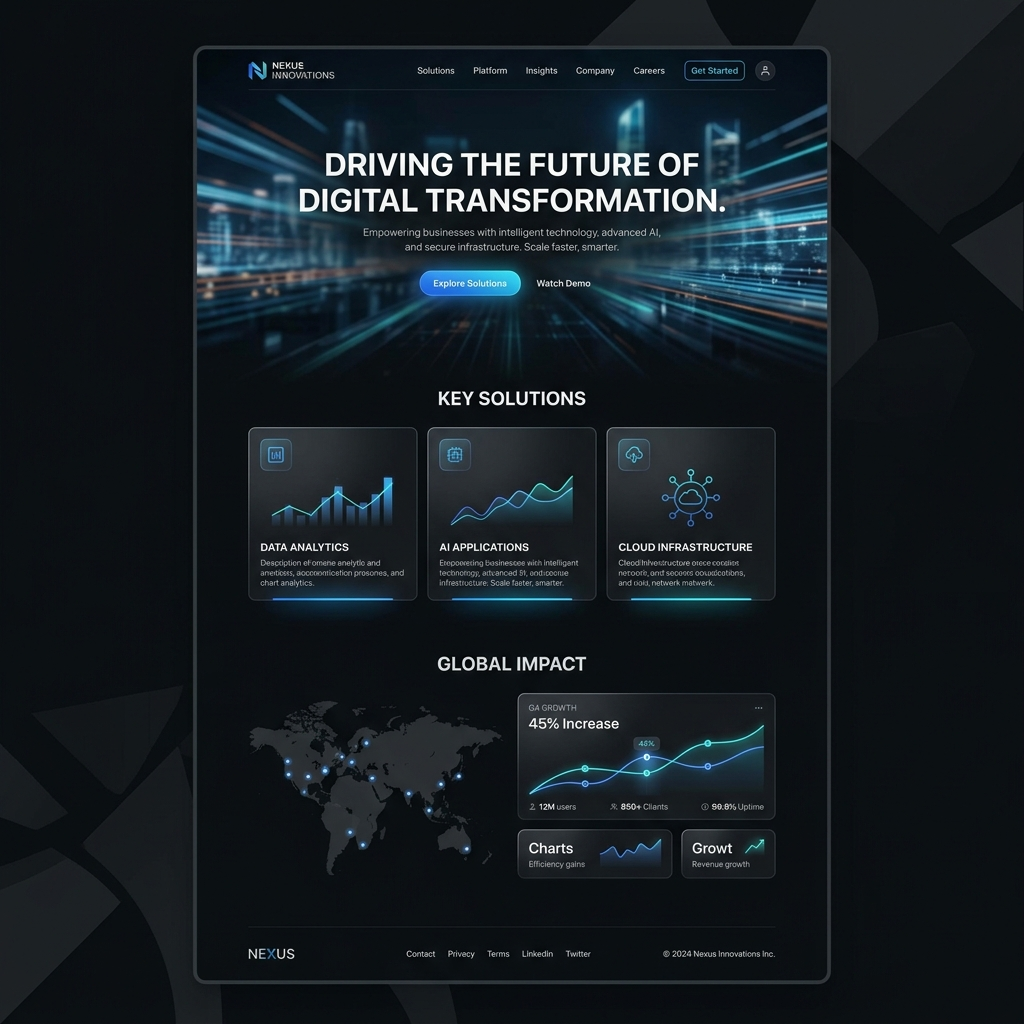
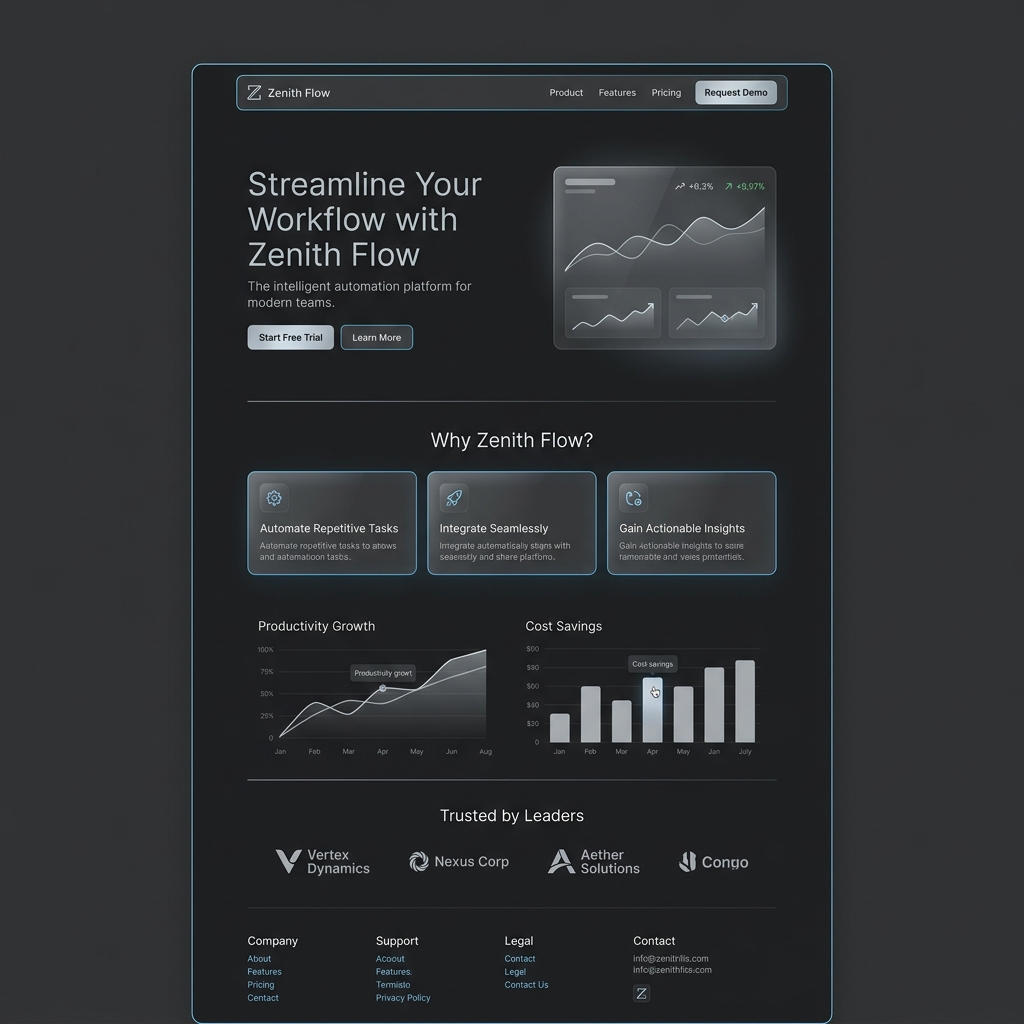
design: replace abstract AI-looking artwork with hyper-realistic modern website screenshots and studio photography

diff --git a/prisma/seed.js b/prisma/seed.js
@@ -25,7 +25,7 @@ const initialData = {
       promo: "Promo Launching - Slot Terbatas!",
       title: "Website Profesional untuk Bisnis Kamu. Selesai 7 Hari. Harga Jelas. Tanpa Ribet.",
       subtitle: "Mitralabs.id hadir buat kamu yang capek bisnis bagus tapi tidak ada yang tahu. Kami buatkan website yang beneran kerja — bukan cuma bagus di mata, tapi menghasilkan di kantong.",
-      image: "/mitralabs_hero_premium_1778227502346.png",
+      image: "/mitralabs_hero_premium.png",
       stats: { label: "Project Selesai", value: "Puluhan", desc: "UMKM, Sekolah, dan Bisnis Lokal di Medan sudah dipercayakan ke kami", statusLabel: "Sistem Status", statusValue: "Aktif" }
     },
     problem: {
@@ -47,17 +47,17 @@ const initialData = {
           tag: "Most Requested",
           title: "🛒 Website untuk UMKM & Toko",
           desc: "Produkmu tampil rapi, harga jelas, tombol pesan langsung ke WA. Pelanggan datang, langsung beli — tanpa bingung.",
-          image: "/mitralabs_umkm_service_1778227528390.png"
+          image: "/mitralabs_umkm_service.png"
         },
         travel: {
           title: "✈ Website untuk Travel & Tour Guide",
           desc: "Paket wisata tampil keren, form booking otomatis, kalender jadwal tersedia. Klien bisa booking kapan saja, kamu tinggal konfirmasi.",
-          image: "/mitralabs_travel_service_1778227548373.png"
+          image: "/mitralabs_travel_service.png"
         },
         school: {
           title: "🏫 Website untuk Sekolah & Lembaga",
           desc: "Profil sekolah profesional, info PPDB online, galeri kegiatan, dan pengumuman terstruktur. Wali murid percaya sejak pertama melihat.",
-          image: "/mitralabs_school_service_1778227565941.png"
+          image: "/mitralabs_school_service.png"
         },
         business: {
           title: "🏢 Website untuk Bisnis & Perusahaan",
@@ -163,7 +163,7 @@ const initialData = {
         slug: "toba-dream-travel",
         title: "Toba Dream Travel Portal",
         category: "Travel",
-        image: "/mitralabs_travel_service_1778227548373.png",
+        image: "/mitralabs_travel_service.png",
         description: "Modernisasi portal wisata Danau Toba dengan sistem booking otomatis dan kalender keberangkatan.",
         challenge: "Menampilkan puluhan paket wisata dengan navigasi yang simpel namun lengkap.",
         solution: "Membangun sistem filter dinamis berbasis kategori dan destinasi wisata.",
@@ -179,7 +179,7 @@ const initialData = {
         slug: "smk-penerbangan-medan",
         title: "Sistem Informasi SMK Penerbangan",
         category: "School",
-        image: "/mitralabs_school_service_1778227565941.png",
+        image: "/mitralabs_school_service.png",
         description: "Website profil sekolah yang dilengkapi sistem pendaftaran siswa baru (PPDB) terintegrasi.",
         challenge: "Mendigitalkan formulir pendaftaran yang kompleks agar mudah diakses wali murid.",
         solution: "Membangun sistem CMS khusus sekolah untuk update berita dan galeri kegiatan.",
@@ -445,7 +445,7 @@ async function main() {
       promo: "Promo Launching - Slot Terbatas!",
       title: "Website Profesional untuk Bisnis Kamu. Selesai 7 Hari. Harga Jelas. Tanpa Ribet.",
       subtitle: "Mitralabs.id hadir buat kamu yang capek bisnis bagus tapi tidak ada yang tahu. Kami buatkan website yang beneran kerja — bukan cuma bagus di mata, tapi menghasilkan di kantong.",
-      image_url: "/mitralabs_hero_premium_1778227502346.png",
+      image_url: "/mitralabs_hero_premium.png",
       stats_label: "Project Selesai",
       stats_value: "Puluhan",
       stats_desc: "UMKM, Sekolah, dan Bisnis Lokal di Medan sudah dipercayakan ke kami"

diff --git a/src/context/initialData.ts b/src/context/initialData.ts
@@ -18,7 +18,7 @@ export const initialData: AppData = {
       promo: "Promo Launching - Slot Terbatas!",
       title: "Website Profesional untuk Bisnis Kamu. Selesai 7 Hari. Harga Jelas. Tanpa Ribet.",
       subtitle: "Mitralabs.id hadir buat kamu yang capek bisnis bagus tapi tidak ada yang tahu. Kami buatkan website yang beneran kerja — bukan cuma bagus di mata, tapi menghasilkan di kantong.",
-      image: "/mitralabs_hero_premium_1778227502346.png",
+      image: "/mitralabs_hero_premium.png",
       stats: { label: "Project Selesai", value: "Puluhan", desc: "UMKM, Sekolah, dan Bisnis Lokal di Medan sudah dipercayakan ke kami", statusLabel: "Sistem Status", statusValue: "Aktif" }
     },
     problem: {
@@ -40,17 +40,17 @@ export const initialData: AppData = {
           tag: "Most Requested",
           title: "🛒 Website untuk UMKM & Toko",
           desc: "Produkmu tampil rapi, harga jelas, tombol pesan langsung ke WA. Pelanggan datang, langsung beli — tanpa bingung.",
-          image: "/mitralabs_umkm_service_1778227528390.png"
+          image: "/mitralabs_umkm_service.png"
         },
         travel: {
           title: "✈ Website untuk Travel & Tour Guide",
           desc: "Paket wisata tampil keren, form booking otomatis, kalender jadwal tersedia. Klien bisa booking kapan saja, kamu tinggal konfirmasi.",
-          image: "/mitralabs_travel_service_1778227548373.png"
+          image: "/mitralabs_travel_service.png"
         },
         school: {
           title: "🏫 Website untuk Sekolah & Lembaga",
           desc: "Profil sekolah profesional, info PPDB online, galeri kegiatan, dan pengumuman terstruktur. Wali murid percaya sejak pertama melihat.",
-          image: "/mitralabs_school_service_1778227565941.png"
+          image: "/mitralabs_school_service.png"
         },
         business: {
           title: "🏢 Website untuk Bisnis & Perusahaan",
